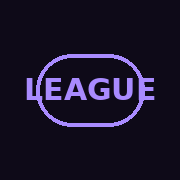
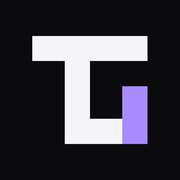
Add files via upload

Changed region(s): [[0.1389, 0.1944, 0.8611, 0.8056]]

diff --git a/index.html b/index.html
@@ -61,11 +61,6 @@ details summary::-webkit-details-marker{display:none}
 .vs{background:linear-gradient(135deg,var(--ac),color-mix(in srgb,var(--ac) 50%,var(--bg)))}.vs p{margin-top:10px;opacity:.92}
 .bar{height:6px;border-radius:9px;background:#0004;overflow:hidden;margin-top:14px}.bar i{display:block;height:100%;background:var(--on);opacity:.85}
 .tc{margin-top:12px;padding:10px 14px;border-radius:18px;border-left:3px solid var(--ac);background:color-mix(in srgb,var(--cd) 70%,transparent)}.tc b{display:block;font-size:17px}
-html[data-g=on]{background:radial-gradient(60% 38% at 8% 0%,color-mix(in srgb,var(--ac) 40%,transparent),transparent),radial-gradient(55% 40% at 100% 58%,color-mix(in srgb,var(--ac) 26%,transparent),transparent),var(--bg) fixed}
-html[data-g=on] body{background:none}
-html[data-g=on] :is(.c,.p:not(.on),select,nav div,.btn,.tc){background:color-mix(in srgb,var(--cd) 50%,transparent);-webkit-backdrop-filter:blur(20px) saturate(1.5);backdrop-filter:blur(20px) saturate(1.5);border:1px solid color-mix(in srgb,var(--tx) 14%,transparent)}
-html[data-g=on] .sh{background:color-mix(in srgb,var(--bg) 88%,transparent);-webkit-backdrop-filter:blur(24px);backdrop-filter:blur(24px)}
-html[data-g=on] .pills{background:transparent;-webkit-backdrop-filter:blur(14px);backdrop-filter:blur(14px)}
 h2{display:flex;align-items:center;gap:8px}h2::before{content:'';width:4px;height:15px;border-radius:4px;background:var(--ac)}
 #hd{position:relative;overflow:hidden;background:linear-gradient(135deg,var(--ac),color-mix(in srgb,var(--ac) 45%,var(--bg)));color:var(--on);border-radius:30px;padding:20px 20px 16px;margin-bottom:6px}
 #hd::after{content:'🏈';position:absolute;right:-6px;top:-14px;font-size:92px;opacity:.16;transform:rotate(-18deg)}
@@ -73,9 +68,6 @@ h2{display:flex;align-items:center;gap:8px}h2::before{content:'';width:4px;heigh
 .pos{background:color-mix(in srgb,var(--ac) 20%,transparent);border-radius:9px;text-align:center;padding:2px 0;width:32px}
 .tg{display:grid;gap:10px;margin-top:8px}.tg .c{margin:0;padding:12px;background:color-mix(in srgb,var(--tx) 6%,transparent)}.tg ul{list-style:none;padding:0;margin:6px 0}.tg li{display:flex;justify-content:space-between;gap:6px;font-size:12px;padding:3px 0}.tg li b{color:var(--ac)}.gr{font-size:22px;font-weight:900;color:var(--ac)}
 nav{padding-bottom:max(8px,calc(env(safe-area-inset-bottom,0px) - 18px))}
-html[data-g=on]{background:radial-gradient(55% 35% at 5% 0%,color-mix(in srgb,var(--ac) 55%,transparent),transparent),radial-gradient(50% 35% at 100% 40%,color-mix(in srgb,var(--ac) 40%,transparent),transparent),radial-gradient(60% 40% at 30% 100%,color-mix(in srgb,var(--ac) 35%,transparent),transparent),var(--bg) fixed}
-html[data-g=on] :is(.c,.p:not(.on),select,nav div,.btn){background:linear-gradient(135deg,#ffffff26,#ffffff08 45%,#ffffff12),color-mix(in srgb,var(--cd) 14%,transparent);-webkit-backdrop-filter:blur(30px) saturate(1.9) brightness(1.05);backdrop-filter:blur(30px) saturate(1.9) brightness(1.05);border:1px solid #ffffff30;box-shadow:inset 0 1px 0 #ffffff55,inset 0 -1px 0 #0003,0 10px 30px #0003}
-html[data-g=on] .tg .c{background:#ffffff0d}
 html,body{height:100%;height:-webkit-fill-available}
 #hd{background:none;color:var(--tx);padding:2px 4px 8px;border-radius:0;margin-bottom:4px}#hd::after{display:none}
 #hd h1{font-size:21px;letter-spacing:.18em;font-weight:800;color:var(--ac)}
@@ -83,25 +75,42 @@ html,body{height:100%;height:-webkit-fill-available}
 #hd .tc{background:color-mix(in srgb,var(--tx) 6%,transparent);border-left-color:var(--ac);color:var(--tx)}
 nav{padding:0}
 nav div{max-width:none;width:100%;border-radius:22px 22px 0 0;padding:8px 14px calc(env(safe-area-inset-bottom,0px) + 4px);box-shadow:0 -6px 24px #0003}
-html[data-g=on] nav div{border-bottom:0}
 .pb{height:6px;border-radius:9px;background:color-mix(in srgb,var(--tx) 12%,transparent);overflow:hidden}.pb i{display:block;height:100%;background:var(--ac)}
+/* v0.3.2 flat design system */
+:root{--bd:color-mix(in srgb,var(--tx) 9%,transparent)}
+html,body{height:100%}html{background:var(--bg)}
+body{font-family:Inter,Geist,-apple-system,BlinkMacSystemFont,"SF Pro Text",system-ui,sans-serif;font-feature-settings:"tnum" 1;letter-spacing:-.006em}
+#sc{height:100dvh}
+.c{background:var(--cd);border:1px solid var(--bd);border-radius:14px;box-shadow:0 1px 2px #0003;padding:12px 14px}
+.tg .c{background:color-mix(in srgb,var(--tx) 4%,var(--cd));box-shadow:none;border-radius:10px}
+.p{border-radius:8px;border:1px solid var(--bd);background:var(--cd);padding:6px 12px;font-size:13px}.p.on{background:var(--ac);color:var(--on);border-color:var(--ac)}
+.btn{border-radius:10px;border:1px solid var(--bd);background:var(--cd)}select{border-radius:10px;border:1px solid var(--bd)}
+.vs{background:var(--cd);color:var(--tx);border:1px solid var(--bd);border-left:3px solid var(--ac);border-radius:14px;padding:16px}.vs .x{background:var(--ac);color:var(--on)}.vs .o{opacity:.65}
+.bar{background:var(--bd)}.bar i{background:var(--ac);opacity:1}
+.tc{border-radius:10px}.sh{border-radius:16px 16px 0 0}.pos{border-radius:6px}img.h{border-radius:8px}
+h2{font-size:15px;letter-spacing:-.01em}
+#hd h1{display:flex;align-items:center;gap:10px;font-size:17px;letter-spacing:.16em;font-weight:800;color:var(--tx)}
+nav div{border-radius:0;max-width:none;width:100%;background:var(--cd);border:0;border-top:1px solid var(--bd);box-shadow:none;padding:6px 12px max(6px,calc(env(safe-area-inset-bottom,0px) - 18px))}
+nav button{border-radius:10px;opacity:.5}nav button.on{background:color-mix(in srgb,var(--ac) 14%,transparent);color:var(--ac);opacity:1}
+@keyframes fd{from{opacity:0;transform:translateY(-3px)}}.sec.on{animation:fd .2s ease}details[open]>*:not(summary){animation:fd .18s ease}
 </style></head><body>
 <div id="up"><span>Update available</span><button onclick="reload()">Reload</button></div>
-<div id="sc"><div id="app"><div id="hd"><h1>THE LEAGUE</h1></div>
+<div id="sc"><div id="app"><div id="hd"></div>
 <div class="sec on" id="home"></div><div class="sec" id="league"></div><div class="sec" id="history"></div><div class="sec" id="settings"></div>
 </div></div>
 <nav><div id="nav"></div></nav><div id="ov"></div>
 <script>
-const V='0.3.1',ID='1313921396073594880',A='https://api.sleeper.app/v1',$=s=>document.querySelector(s);
+const V='0.3.2',ID='1313921396073594880',A='https://api.sleeper.app/v1',$=s=>document.querySelector(s);
 // Real-name tags. Keys are lowercase team names, display names, or Sleeper user IDs (IDs survive team renames).
 const OWNERS={'pookie nacuie':'Humza','hostman':'Ben','kyle':'Karim','team aaronchangeur':'Aaron','big busts':'Rob','redbirdy8':'Reda','maye back music':'Ali','team xlthrockmorton':'Kassem','perfect timing':'Moussa','largeaquatic bird':'Dan','mr hailee steinfeld':'Marc'};
 // Season stories shown in History. Add 'year':'text' entries.
 const NOTES={'2025':'','2024':''};
 const TH={ravens:'Ravens',niners:'49ers',raiders:'Raiders',browns:'Browns',bears:'Bears',eagles:'Eagles'};
-const CH=[{v:'0.3.1',s:'FantasyPros-powered roster strength.'},{v:'0.3.0',s:'Power Rankings, smarter trade analysis, fixed values.'},{v:'0.2.2',s:'Quieter header, full-width nav, simpler changelog.'},{v:'0.2.1',s:'Live trade values from RosterAudit.'}];
+const CH=[{v:'0.3.2',s:'New flat design, TL logo, letter grades, collapsed League.'},{v:'0.3.1',s:'FantasyPros-powered roster strength.'},{v:'0.3.0',s:'Power Rankings, smarter trade analysis, fixed values.'},{v:'0.2.2',s:'Quieter header, full-width nav, simpler changelog.'},{v:'0.2.1',s:'Live trade values from RosterAudit.'}];
 const LS=(k,v)=>v===undefined?JSON.parse(localStorage.getItem(k)||'null'):localStorage.setItem(k,JSON.stringify(v));
 const J=u=>fetch(A+u).then(r=>{if(!r.ok)throw Error(r.status);return r.json()});
 const e=s=>String(s??'').replace(/[&<>"]/g,c=>({'&':'&amp;','<':'&lt;','>':'&gt;','"':'&quot;'}[c]));
+const LOGO=`<svg viewBox="0 0 100 100" width="26" height="26"><rect x="18" y="20" width="64" height="14" fill="currentColor"/><rect x="36" y="20" width="14" height="60" fill="currentColor"/><rect x="36" y="66" width="46" height="14" fill="currentColor"/><rect x="68" y="48" width="14" height="32" fill="var(--ac)"/></svg>`;
 let S={};
 const tn=i=>e(S.tm[i]?.name||'Team '+i),pn=i=>e(S.P[i]?.[0]||'Player');
 const nm=t=>e(t.name)+(t.real?` <span class="mu sm">${e(t.real)}</span>`:'');
@@ -178,27 +187,28 @@ function blurb(a){const N=e(a.t.name),k=(a.id+S.lw)%2,pk=(...x)=>x[k%x.length],a
  if(a.d>=3)B.push(`Up ${a.d} spots. ${N} kicked the door in and nobody asked it to.`);if(a.d<=-3)B.push(`Down ${-a.d} spots. This is not a slump, it's a crime scene.`);
  if(a.rank==1)B.push(pk(`The league's best team and it isn't particularly close. The only question is whether the manager can resist one more unnecessary trade.`,`Top of the heap and acting like it. Everyone else is playing for second.`));
  if(!B.length)B.push(`${a.w}-${a.l} with ${pg} PPG. Solid, respectable, and nobody in this league is losing sleep over ${N}.`);return B.slice(0,2).join(' ')}
-function why(a){const c=Object.entries(a.c).filter(x=>x[1]!=null).sort((x,y)=>y[1]-x[1]),h=c[0],l=c[c.length-1];return`${PL[h[0]]} (${h[1].toFixed(0)}) carries this team and ${PL[l[0]]} (${l[1].toFixed(0)}) is the drag. ${a.ppg?.toFixed(1)} PPG, ${Math.round((a.apw||0)*100)}% all-play against ${Math.round((a.wp||0)*100)}% actual wins.`}
+function why(a){const c=Object.entries(a.c).filter(x=>x[1]!=null).sort((x,y)=>y[1]-x[1]),h=c[0],l=c[c.length-1];return`${PL[h[0]]} (${lg(h[1])}) carries this team and ${PL[l[0]]} (${lg(l[1])}) is the drag. ${a.ppg?.toFixed(1)} PPG, ${Math.round((a.apw||0)*100)}% all-play against ${Math.round((a.wp||0)*100)}% actual wins.`}
+const lg=v=>v>=90?'A+':v>=83?'A':v>=77?'A-':v>=71?'B+':v>=65?'B':v>=59?'B-':v>=53?'C+':v>=47?'C':v>=41?'C-':v>=35?'D+':v>=29?'D':v>=23?'D-':'F';
 const rc=(a,n)=>{const r=a.res.slice(-n);return r.length?`${r.filter(x=>x=='W').length}-${r.filter(x=>x=='L').length}`:'—'},tr=a=>a.d==null?'NEW':a.d>0?`<span style="color:#4ade80">↑${a.d}</span>`:a.d<0?`<span style="color:#f87171">↓${-a.d}</span>`:'—';
 function prUI(){const R=S.PR;if(!R||!R.some(a=>a.pts.length))return`<div class="c mu">Power rankings start once Week 1 is scored.</div>`;
  const pv=S.lw>1?calc(S.lw-1):null;R.forEach(a=>{const q=pv?.find(x=>x.id==a.id);a.d=q?q.rank-a.rank:null});
  const gp=a=>(a.wp||0)-(a.apw||0),pc=a=>Math.round((a.apw||0)*100)+'%',sup=[],dd=R.filter(a=>a.d!=null),riser=[...dd].sort((x,y)=>y.d-x.d)[0],fall=[...dd].sort((x,y)=>x.d-y.d)[0],sk=a=>a.streak[0]=='W'?+a.streak.slice(1):0,hot=[...R].sort((x,y)=>sk(y)-sk(x))[0],fr=[...R].sort((x,y)=>gp(y)-gp(x))[0],un=[...R].sort((x,y)=>gp(x)-gp(y))[0];
  if(riser?.d>=2)sup.push(['📈 Biggest Riser',`${tn(riser.id)} ↑${riser.d}`]);if(fall?.d<=-2)sup.push(['📉 Biggest Faller',`${tn(fall.id)} ↓${-fall.d}`]);if(sk(hot)>=3)sup.push(['🔥 Hottest Team',`${tn(hot.id)}, ${sk(hot)} straight wins`]);
  if(gp(fr)>=.2)sup.push(['🎭 Biggest Fraud',`${tn(fr.id)}: ${fr.w}-${fr.l} but ${pc(fr)} all-play`]);if(gp(un)<=-.2)sup.push(['😭 Unluckiest',`${tn(un.id)}: ${un.w}-${un.l} but ${pc(un)} all-play`]);
- return`<div class="mu sm" style="margin:0 4px 10px">Who's actually good? Week ${S.lw}</div>${sup.length?`<div class="tg" style="grid-template-columns:1fr 1fr;margin:0 0 10px">${sup.map(x=>`<div class="c sm"><b>${x[0]}</b><br>${x[1]}</div>`).join('')}</div>`:''}
+ return`<div class="mu sm" style="margin:0 4px 10px">Week ${S.lw}</div>${sup.length?`<div class="sm" style="margin:0 4px 10px;display:grid;gap:4px">${sup.map(x=>`<div><span class="mu">${x[0]}</span> ${x[1]}</div>`).join('')}</div>`:''}
  <div class="row mu sm" style="padding:0 16px"><span style="width:22px">#</span><span style="flex:1">Team</span><span style="width:32px">Trend</span><span style="width:36px">Rec</span><span style="width:46px">All-Play</span><span style="width:40px;text-align:right">PPG</span></div>`+R.map(a=>{const t=a.t,ph=S.PH.map((r,i)=>`W${i+1} #${r[a.id]}`).join(' → ');
  return`<details class="c pr${mine(t)}" style="padding:10px 14px"><summary class="row" style="padding:2px 0"><b style="width:22px">${a.rank}</b><span style="flex:1;min-width:0">${nm(t)}</span><span style="width:32px" class="sm">${tr(a)}</span><span style="width:36px" class="sm">${a.w}-${a.l}</span><span style="width:46px" class="sm">${Math.round(a.ap)}-${Math.round(a.al)}</span><span style="width:40px;text-align:right" class="sm">${a.ppg?.toFixed(1)}</span></summary>
- <div style="margin-top:10px"><div class="row" style="justify-content:space-between"><div><b style="font-size:17px">#${a.rank} ${e(t.name)}</b><div class="mu sm">Power Score</div></div><span class="gr" style="font-size:30px">${a.score.toFixed(1)}</span></div>
- ${Object.keys(PW).map(k=>`<div class="row sm" style="padding:3px 0"><span style="width:104px">${PL[k]}</span><span class="pb" style="flex:1"><i style="width:${a.c[k]??0}%"></i></span><b style="width:34px;text-align:right">${a.c[k]==null?'–':a.c[k].toFixed(0)}</b></div>`).join('')}
+ <div style="margin-top:10px"><div class="row" style="justify-content:space-between"><div><b style="font-size:17px">#${a.rank} ${e(t.name)}</b><div class="mu sm">Overall Grade</div></div><span class="gr" style="font-size:30px">${lg(a.score)}</span></div>
+ <div class="sm" style="display:grid;grid-template-columns:1fr 1fr;gap:2px 14px;margin-top:6px">${Object.keys(PW).map(k=>`<div class="row" style="padding:3px 0;justify-content:space-between"><span class="mu">${PL[k]}</span><b>${a.c[k]==null?'–':lg(a.c[k])}</b></div>`).join('')}</div>
  <div class="sm" style="display:grid;grid-template-columns:1fr 1fr;gap:3px 12px;margin-top:10px">${[['Record',rec(a.t)],['Streak',a.streak],['Last 3',rc(a,3)],['Last 5',rc(a,5)],['PPG',a.ppg?.toFixed(1)],['Points For',a.pf.toFixed(1)],['Points Against',a.t.pa.toFixed(1)],['All-Play',`${Math.round(a.ap)}-${Math.round(a.al)}`],['All-Play %',pc(a)],['Win %',Math.round((a.wp||0)*100)+'%'],['Luck gap',(gp(a)*100).toFixed(0)+' pts'],['SOS (opp all-play)',a.sos==null?'–':Math.round(a.sos*100)+'%'],['Weekly std dev',a.sd?.toFixed(1)??'–']].map(x=>`<div class="row" style="padding:2px 0;justify-content:space-between"><span class="mu">${x[0]}</span><b>${x[1]}</b></div>`).join('')}</div>
  <div class="mu sm" style="margin-top:10px">Roster snapshot (${S.FPok?'FantasyPros rank · ROS projection':'avg points, last 4 games'})</div>${a.sl.slice(0,8).map(p=>`<div class="row sm" style="padding:3px 0"><span class="pos">${S.P[p][1]}</span><span style="flex:1">${pn(p)}</span><span>${S.FPok&&S.FP.players[p]?`#${S.FP.players[p].r??S.FP.players[p].rd??'–'} · ${(S.FP.players[p].ros??0).toFixed(0)} pts`:(avg((S.pp?.[p]||[]).slice(-4))??0).toFixed(1)}</span><span class="mu" style="width:70px;text-align:right">${injs(p)||'Active'}</span></div>`).join('')}
  <p class="sm" style="margin-top:10px"><b>Why they're here:</b> ${why(a)}</p><p class="sm"><b>Weekly Roast:</b> ${blurb(a)}</p><p class="mu sm">${ph}</p></div></details>`}).join('')+`<p class="mu sm" style="margin:4px">${S.FPok?'Roster Strength: 50% FantasyPros ROS projections, 50% ROS consensus rank. Data as of '+new Date(S.FP.ts).toLocaleString()+(S.FP.stale?' (cached copy, FantasyPros is currently unavailable).':'.'):'Roster Strength uses recent scoring because FantasyPros data is not connected.'}</p>`}
-function prTop(){const R=S.PR;if(!R?.some(a=>a.pts.length))return`<div class="c mu" style="text-align:center;padding:30px 18px">Power rankings start once Week 1 is scored.</div>`;return`<div class="c">${R.slice(0,3).map(a=>`<div class="row${mine(a.t)}"><b style="width:22px">${a.rank}</b><span style="flex:1">${nm(a.t)}</span><span class="mu sm">${rec(a.t)} · ${a.score.toFixed(1)}</span></div>`).join('')}<button class="btn" style="margin-top:8px;padding:10px" onclick="tab('league');jump('rk')">See Full Rankings</button></div>`}
+function prTop(){const R=S.PR;if(!R?.some(a=>a.pts.length))return`<div class="c mu" style="text-align:center;padding:30px 18px">Power rankings start once Week 1 is scored.</div>`;return`<div class="c">${R.slice(0,3).map(a=>`<div class="row${mine(a.t)}"><b style="width:22px">${a.rank}</b><span style="flex:1">${nm(a.t)}</span><span class="mu sm">${rec(a.t)} · ${lg(a.score)}</span></div>`).join('')}<button class="btn" style="margin-top:8px;padding:10px" onclick="tab('league');jump('rk')">See Full Rankings</button></div>`}
 // FantasyPros data comes from your own Worker (the API key stays server-side). Paste your Worker URL below.
 const FPW='https://fp-proxy.humza15.workers.dev';
 async function fpd(){if(!FPW)return null;const rec=S.L.scoring_settings?.rec??.5,sc=rec>=1?'PPR':rec>0?'HALF':'STD',c=LS('fp');try{const r=await fetch(`${FPW}/values?scoring=${sc}`);if(!r.ok)throw 0;const d=await r.json();if(!d.players)throw 0;LS('fp',d);return d}catch{return c&&c.scoring==sc?{...c,stale:true}:null}}
 function hdr(){const me=S.T.find(t=>t.uid==LS('me'));let o='';if(me){const m=S.cur.find(x=>x.roster_id==me.id),q=m&&S.cur.find(x=>x.matchup_id==m.matchup_id&&x.roster_id!=me.id),op=q&&S.tm[q.roster_id];o=`<div class="tc"><div class="mu sm">Your Team</div><b>${e(me.name)}</b><div class="sm">${rec(me)}${op?` · Week ${S.wk} vs ${e(op.name)} (${rec(op)})`:''}</div></div>`}
- $('#hd').innerHTML=`<h1>THE LEAGUE</h1><div class="mu sm">${e(S.L.season)} Season · Week ${S.wk}</div>${o}`}
+ $('#hd').innerHTML=`<h1>${LOGO}THE LEAGUE</h1><div class="mu sm">${e(S.L.season)} Season · Week ${S.wk}</div>${o}`}
 function mv(t){if(t.type=='trade')return`<b>Trade</b> ${t.roster_ids.map(tn).join(' ⇄ ')}`;const a=Object.entries(t.adds||{}).map(([p,r])=>`${tn(r)} added ${pn(p)}`),d=Object.entries(t.drops||{}).map(([p,r])=>`${tn(r)} dropped ${pn(p)}`);return[...a,...d].join('<br>')}
 const dt=t=>new Date(t.created).toLocaleDateString(undefined,{month:'short',day:'numeric'});
 function totw(){const Q={QB:1,RB:2,WR:2,TE:1,K:1,DEF:1},pool={};
@@ -240,14 +250,14 @@ function draw(){if(document.querySelector('.sx'))S.op=[...document.querySelector
  <h2>📈 Power Rankings</h2>${prTop()}
  <h2>🔄 Recent Moves</h2><div class="c">${S.tx.slice(0,5).map(t=>`<div class="row"><span class="mu sm" style="width:46px">${dt(t)}</span><span class="sm" style="flex:1">${mv(t)}</span></div>`).join('')||'<span class="mu">No moves yet.</span>'}</div>
  <a class="btn" href="https://sleeper.com/leagues/${ID}">🔗 Open THE LEAGUE in Sleeper</a>`;
- const sx=(id,t,b,o=1)=>`<details class="sx" id="s-${id}"${(S.op?S.op.includes('s-'+id):o)?' open':''}><summary>${t}</summary>${b}</details>`,bm=[['rk','📈 Rankings'],['tw','🏆 Team of the Week'],['st','📊 Standings'],['pk','🎯 Draft Picks'],['tr','🤝 Trades']];
+ const sx=(id,t,b,o=0)=>`<details class="sx" id="s-${id}"${(S.op?S.op.includes('s-'+id):o)?' open':''}><summary>${t}</summary>${b}</details>`,bm=[['rk','📈 Rankings'],['tw','🏆 Team of the Week'],['st','📊 Standings'],['pk','🎯 Draft Picks'],['tr','🤝 Trades']];
  $('#league').innerHTML=`<div class="pills"><button class="p" onclick="colAll(this)">⌃</button>${bm.map(b=>`<button class="p" onclick="jump('${b[0]}')">${b[1]}</button>`).join('')}</div>`
  +sx('rk','📈 Power Rankings',prUI())
  +sx('tw','🏆 Team of the Week',`<div class="mu sm" style="margin:0 4px 8px">Week ${S.lw} · top scorer at each spot, half-PPR</div>${totw()}`)
  +sx('st','📊 Standings',`<div class="c"><div class="row mu sm"><span style="width:22px"></span><span style="flex:1">Team</span><span>W-L</span><span style="width:52px;text-align:right">PF</span><span style="width:44px;text-align:right">Playoffs</span></div>${[...S.T].sort(rk).map((t,i)=>`<div class="row${mine(t)}"><span class="mu" style="width:22px">${i+1}</span><span style="flex:1">${nm(t)}</span><span>${rec(t)}</span><span class="mu" style="width:52px;text-align:right">${t.pf.toFixed(0)}</span><span style="width:44px;text-align:right">${S.po?Math.round(S.po[t.id]*100)+'%':'–'}</span></div>`).join('')}</div>`)
  +sx('pk','🎯 Draft Picks',picks(),0)+sx('tr','🤝 Trades',trades());
  const m=LS('m')||'dark',t=LS('t')||'ravens';
- $('#settings').innerHTML=`<h2 style="margin-top:0">🎨 Theme</h2><select onchange="setT(this.value)">${Object.entries(TH).map(([k,v])=>`<option value="${k}"${k==t?' selected':''}>${v}</option>`).join('')}</select><div class="pills" style="position:static;margin-top:10px"><button class="p ${m=='dark'?'on':''}" onclick="setM('dark')">Dark</button><button class="p ${m=='light'?'on':''}" onclick="setM('light')">Light</button><button class="p ${(LS('g')||'on')=='on'?'on':''}" onclick="setG((LS('g')||'on')=='on'?'off':'on')">💧 Liquid Glass</button></div>
+ $('#settings').innerHTML=`<h2 style="margin-top:0">🎨 Theme</h2><select onchange="setT(this.value)">${Object.entries(TH).map(([k,v])=>`<option value="${k}"${k==t?' selected':''}>${v}</option>`).join('')}</select><div class="pills" style="position:static;margin-top:10px"><button class="p ${m=='dark'?'on':''}" onclick="setM('dark')">Dark</button><button class="p ${m=='light'?'on':''}" onclick="setM('light')">Light</button></div>
  <h2>👤 Your Team</h2><select onchange="setMe(this.value)">${S.T.map(x=>`<option value="${x.uid}"${x.uid==LS('me')?' selected':''}>${e(x.name)}${x.real?' ('+e(x.real)+')':''}</option>`).join('')}</select>
  <h2>📝 Changelog</h2><div class="c">${CH.slice(0,3).map(c=>`<div class="row sm"><b style="width:48px">${c.v}</b><span class="mu" style="flex:1">${e(c.s)}</span></div>`).join('')}</div>
  <h2>⚙ App</h2><div class="c"><div class="row"><span style="flex:1">Version</span><span class="mu">${V}</span></div><div class="row sm mu">Trade values by <a href="https://rosteraudit.com" style="color:var(--ac)">RosterAudit.com</a></div><div class="row sm mu">FantasyPros data: ${S.FP?new Date(S.FP.ts).toLocaleString()+(S.FP.stale?" (cached)":""):"not connected"}</div></div><button class="btn" onclick="chk(1)">Check for Updates</button>`;
@@ -256,13 +266,13 @@ async function hist(){const out=[];let id=S.L.previous_league_id;
  try{while(id&&id!='0'&&out.length<8){const[L,wb,us,rs]=await Promise.all([J('/league/'+id),J(`/league/${id}/winners_bracket`),J(`/league/${id}/users`),J(`/league/${id}/rosters`)]),T=mkTeams(rs,us),f=wb.find(x=>x.p==1);out.push({y:L.season,c:T.find(t=>t.id==f?.w),r:T.find(t=>t.id==f?.l)});id=L.previous_league_id}}catch{}
  S.H=out;$('#history').innerHTML=`<h2 style="margin-top:0">🏆 Champions</h2>${out.map((h,i)=>`<button class="c" style="display:block;width:100%;text-align:left;border:0;color:inherit" onclick="season(${i})"><div class="mu sm">${h.y}</div><b style="font-size:20px">${h.c?e(h.c.name):'No champion found'}</b>${h.c?.real?`<div class="mu">${e(h.c.real)}</div>`:''}</button>`).join('')||'<div class="c mu">No past seasons found.</div>'}`}
 function season(i){const h=S.H[i],n=NOTES[h.y];$('#ov').innerHTML=`<div class="ov" onclick="if(event.target==this)this.innerHTML=''"><div class="sh"><div class="mu">${h.y} champion</div><h1>${h.c?e(h.c.name):'—'}</h1><div class="mu">${h.c?.real?e(h.c.real)+' · ':''}${h.c?rec(h.c)+' · '+h.c.pf.toFixed(1)+' PF':''}</div>${h.r?`<p class="sm mu" style="margin-top:10px">Beat ${e(h.r.name)} in the final</p>`:''}<h2>📖 Season Recap</h2><p>${n?e(n):'<span class="mu">This season\'s story is coming soon.</span>'}</p><button class="btn" onclick="$('#ov').innerHTML=''">Close</button></div></div>`}
-function colAll(b){const d=[...document.querySelectorAll('.sx')],a=d.some(x=>x.open);d.forEach(x=>x.open=!a);S.op=a?[]:d.map(x=>x.id);b.textContent=a?'⌄':'⌃'}function jump(i){const d=document.getElementById('s-'+i);d.open=true;d.scrollIntoView({behavior:'smooth'})}function setG(v){LS('g',v);theme();draw()}function setT(t){LS('t',t);theme()}function setM(m){LS('m',m);theme();draw()}
-function theme(){document.documentElement.dataset.g=LS('g')||'on';document.documentElement.dataset.t=LS('t')||'ravens';document.documentElement.dataset.m=LS('m')||'dark'}
+function colAll(b){const d=[...document.querySelectorAll('.sx')],a=d.some(x=>x.open);d.forEach(x=>x.open=!a);S.op=a?[]:d.map(x=>x.id);b.textContent=a?'⌄':'⌃'}function jump(i){const d=document.getElementById('s-'+i);d.open=true;d.scrollIntoView({behavior:'smooth'})}function setT(t){LS('t',t);theme()}function setM(m){LS('m',m);theme();draw()}
+function theme(){document.documentElement.dataset.t=LS('t')||'ravens';document.documentElement.dataset.m=LS('m')||'dark'}
 function tab(n){document.querySelectorAll('.sec').forEach(s=>s.classList.toggle('on',s.id==n));document.querySelectorAll('nav button').forEach(b=>b.classList.toggle('on',b.dataset.n==n));$('#sc').scrollTo(0,0)}
 $('#nav').innerHTML=[['home','⌂','Home'],['league','☰','League'],['history','◷','History'],['settings','⚙','Settings']].map(([n,i,l])=>`<button data-n="${n}" class="${n=='home'?'on':''}" onclick="tab('${n}')"><i>${i}</i>${l}</button>`).join('');
 async function chk(m){try{const r=await fetch('version.json?'+Date.now(),{cache:'no-store'}),j=await r.json();if(j.v!==V)$('#up').style.display='flex';else if(m)alert('You are on the latest version ('+V+').')}catch{if(m)alert("Couldn't check for updates.")}}
 async function reload(){try{(await navigator.serviceWorker.getRegistrations()).forEach(r=>r.unregister());(await caches.keys()).forEach(k=>caches.delete(k))}catch{}location.reload()}
-theme();if('serviceWorker'in navigator)navigator.serviceWorker.register('sw.js');
+$('#hd').innerHTML=`<h1>${LOGO}THE LEAGUE</h1>`;theme();if('serviceWorker'in navigator)navigator.serviceWorker.register('sw.js');
 document.addEventListener('visibilitychange',()=>!document.hidden&&chk());
 chk();load();
 </script></body></html>

diff --git a/sw.js b/sw.js
@@ -1,4 +1,4 @@
-const C='league-0.3.1';
+const C='league-0.3.2';
 self.addEventListener('install',e=>{self.skipWaiting()});
 self.addEventListener('activate',e=>e.waitUntil(caches.keys().then(k=>Promise.all(k.filter(x=>x!==C).map(x=>caches.delete(x)))).then(()=>clients.claim())));
 self.addEventListener('fetch',e=>{const u=new URL(e.request.url);if(u.origin!==location.origin||e.request.method!=='GET')return;
